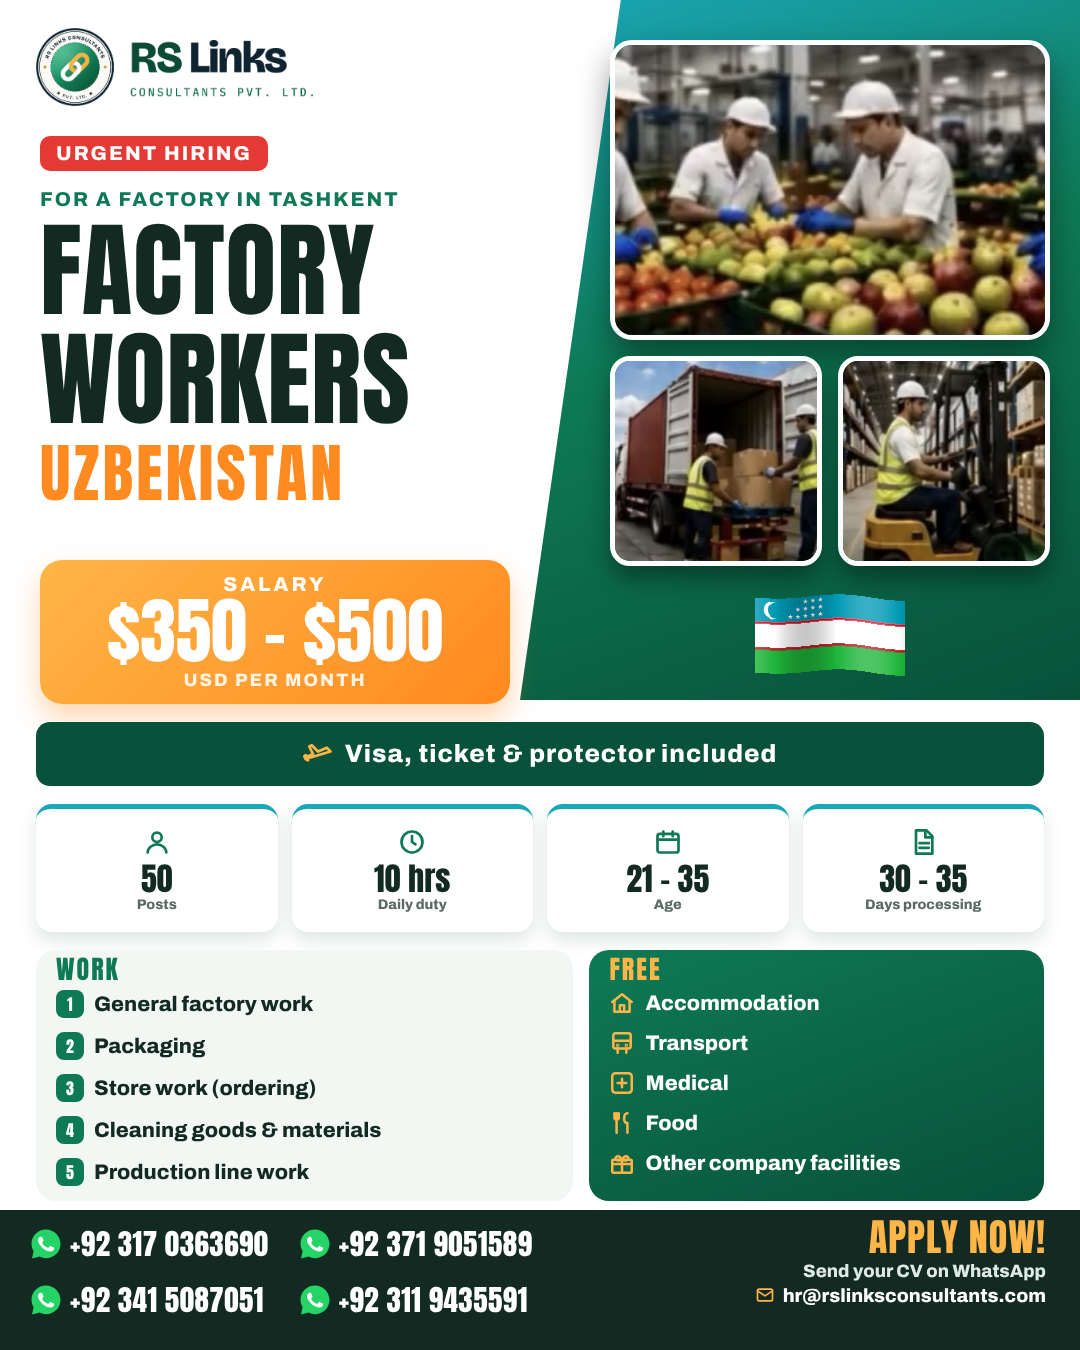
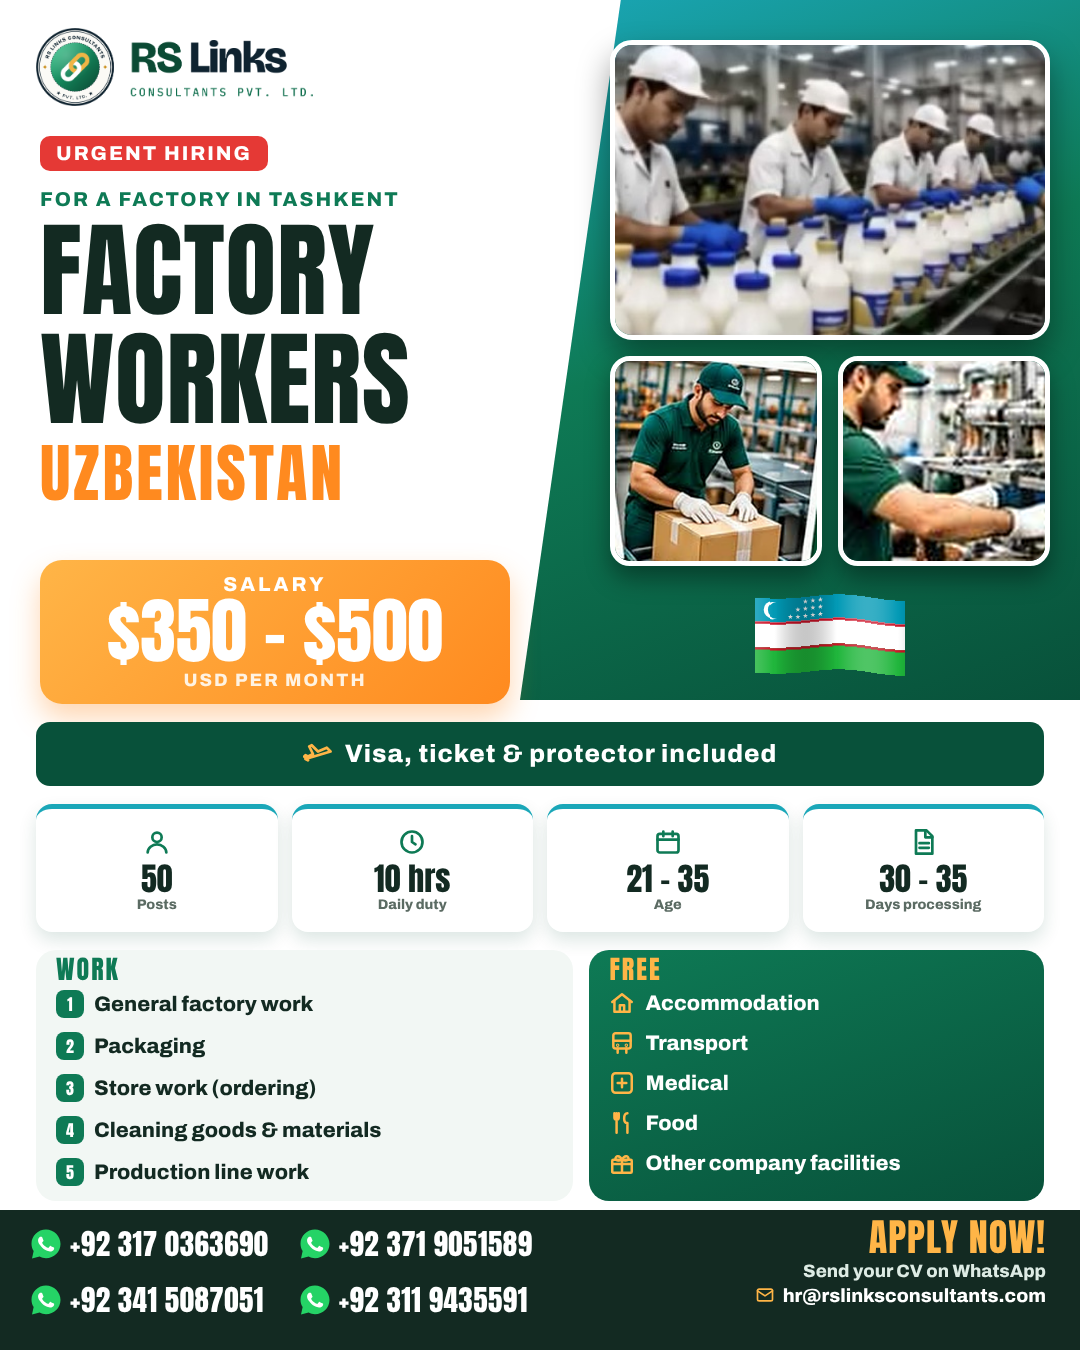
Uzbekistan v9: factory-worker photos only (no fruit/agriculture)
Claude-Session: https://claude.ai/code/session_01YJ5ofgU8QCiWTsYR9pvXG4

Changed region(s): [[0.55, 0.0311, 0.9778, 0.4356]]

diff --git a/src/uzbekistan_v9.py b/src/uzbekistan_v9.py
@@ -2,7 +2,7 @@
 350–500 USD per month. Rest as v8 (demands/2026-10-17-uzbekistan-factory): Tashkent, 50 posts, 10 hours, age 21–35,
 processing 30–35 days, visa/ticket/protector included, 5 duties, free accommodation / transport / medical / food.
 Design: "sunrise split" — white page, diagonal emerald-to-teal block on the right holding a big photo collage
-(fruit packing / forklift / truck loading), Uzbek flag ribbon, sunrise-orange salary bar, white stat chips."""
+(factory line / machine operator / packer — user: factory workers only, no fruit/agriculture), Uzbek flag ribbon, sunrise-orange salary bar, white stat chips."""
 import sys
 
 from common import PHONES, PHOTOS, flag, font_css, icon, logo_img, render, whatsapp_icon
@@ -38,7 +38,7 @@ def build(lang):
         fam = f"400 {px}px Anton" if anton else f"{weight} {px}px Archivo"
         return f"<div style='font:{fam};color:{c};line-height:1.05;direction:ltr;unicode-bidi:isolate;{extra}'>{s}</div>"
 
-    ph = lambda k, pos="center": f"<img src='{(PHOTOS / (k + '.jpg')).as_uri()}' style='width:100%;height:100%;object-fit:cover;object-position:{pos}'>"
+    ph = lambda k, pos="center": f"<img src='{(PHOTOS / k).as_uri()}' style='width:100%;height:100%;object-fit:cover;object-position:{pos}'>"
     poly = "polygon(18% 0,100% 0,100% 100%,0 100%)" if not ur else "polygon(0 0,82% 0,100% 100%,0 100%)"
     stats = "".join(f"<div style='background:#fff;border-radius:16px;box-shadow:0 8px 18px rgba(8,81,58,.14);display:flex;flex-direction:column;align-items:center;justify-content:center;border-top:5px solid {TEAL}'>"
                     f"{icon(ic, 28, EM, 2.3)}{W(v, 32, INK, 'margin-top:6px', anton=True)}{W(l, 18 if ur else 14, '#5B6B63', 'margin-top:2px')}</div>" for ic, v, l in t["stats"])
@@ -50,9 +50,9 @@ def build(lang):
     nums = "".join(f"<div style='display:flex;align-items:center;gap:8px'>{whatsapp_icon(32)}<span style='font:400 29px Anton;color:#fff;letter-spacing:.5px'>{n}</span></div>" for n in PHONES)
     body = f"""<div dir='{t['dir']}'>
 <div class='abs' style='top:0;{end}:0;width:560px;height:700px;background:linear-gradient(160deg,{TEAL},{EM} 45%,{EM2});clip-path:{poly}'></div>
-<div class='abs' style='top:40px;{end}:30px;width:440px;height:300px;border-radius:22px;overflow:hidden;border:5px solid #fff;box-shadow:0 16px 32px #0006'>{ph('uz_fruit_packing', 'center 35%')}</div>
-<div class='abs' style='top:356px;{end}:30px;width:212px;height:210px;border-radius:20px;overflow:hidden;border:5px solid #fff;box-shadow:0 12px 24px #0006'>{ph('uz_forklift')}</div>
-<div class='abs' style='top:356px;{end}:258px;width:212px;height:210px;border-radius:20px;overflow:hidden;border:5px solid #fff;box-shadow:0 12px 24px #0006'>{ph('uz_truck_loading')}</div>
+<div class='abs' style='top:40px;{end}:30px;width:440px;height:300px;border-radius:22px;overflow:hidden;border:5px solid #fff;box-shadow:0 16px 32px #0006'>{ph('uz_milk_packing.jpg', 'center 30%')}</div>
+<div class='abs' style='top:356px;{end}:30px;width:212px;height:210px;border-radius:20px;overflow:hidden;border:5px solid #fff;box-shadow:0 12px 24px #0006'>{ph('tr_plastic.png', 'center 40%')}</div>
+<div class='abs' style='top:356px;{end}:258px;width:212px;height:210px;border-radius:20px;overflow:hidden;border:5px solid #fff;box-shadow:0 12px 24px #0006'>{ph('rslinks_worker_pack_x3.png', '55% 35%')}</div>
 <div class='abs' style='top:592px;{end}:30px;width:440px;display:flex;justify-content:center'>{flag('uzbekistan', 150, True, 'uz9')}</div>
 <div class='abs' style='top:28px;{start}:36px'>{logo_img('logo-horizontal-light', f'width:300px;height:78px;object-position:{start}')}</div>
 <div class='abs' style='top:136px;{start}:40px;width:500px;text-align:{start}'>
